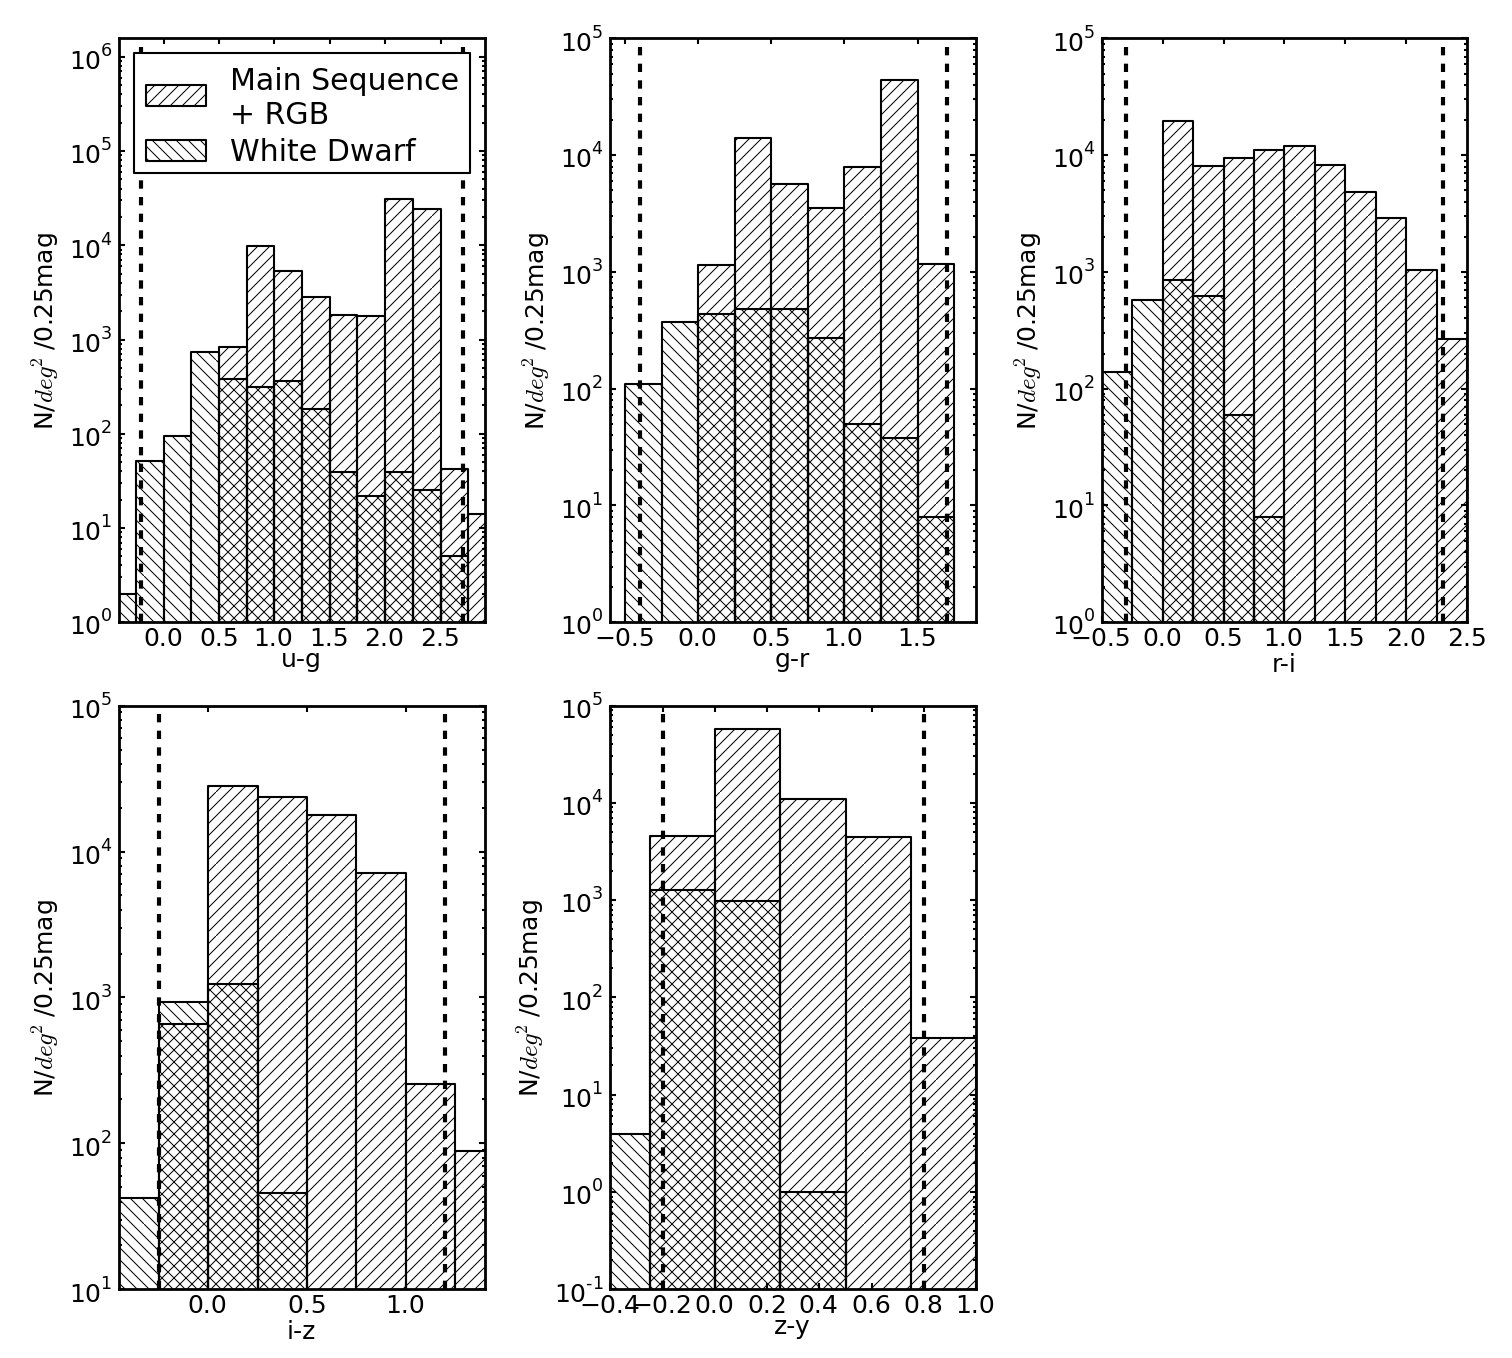
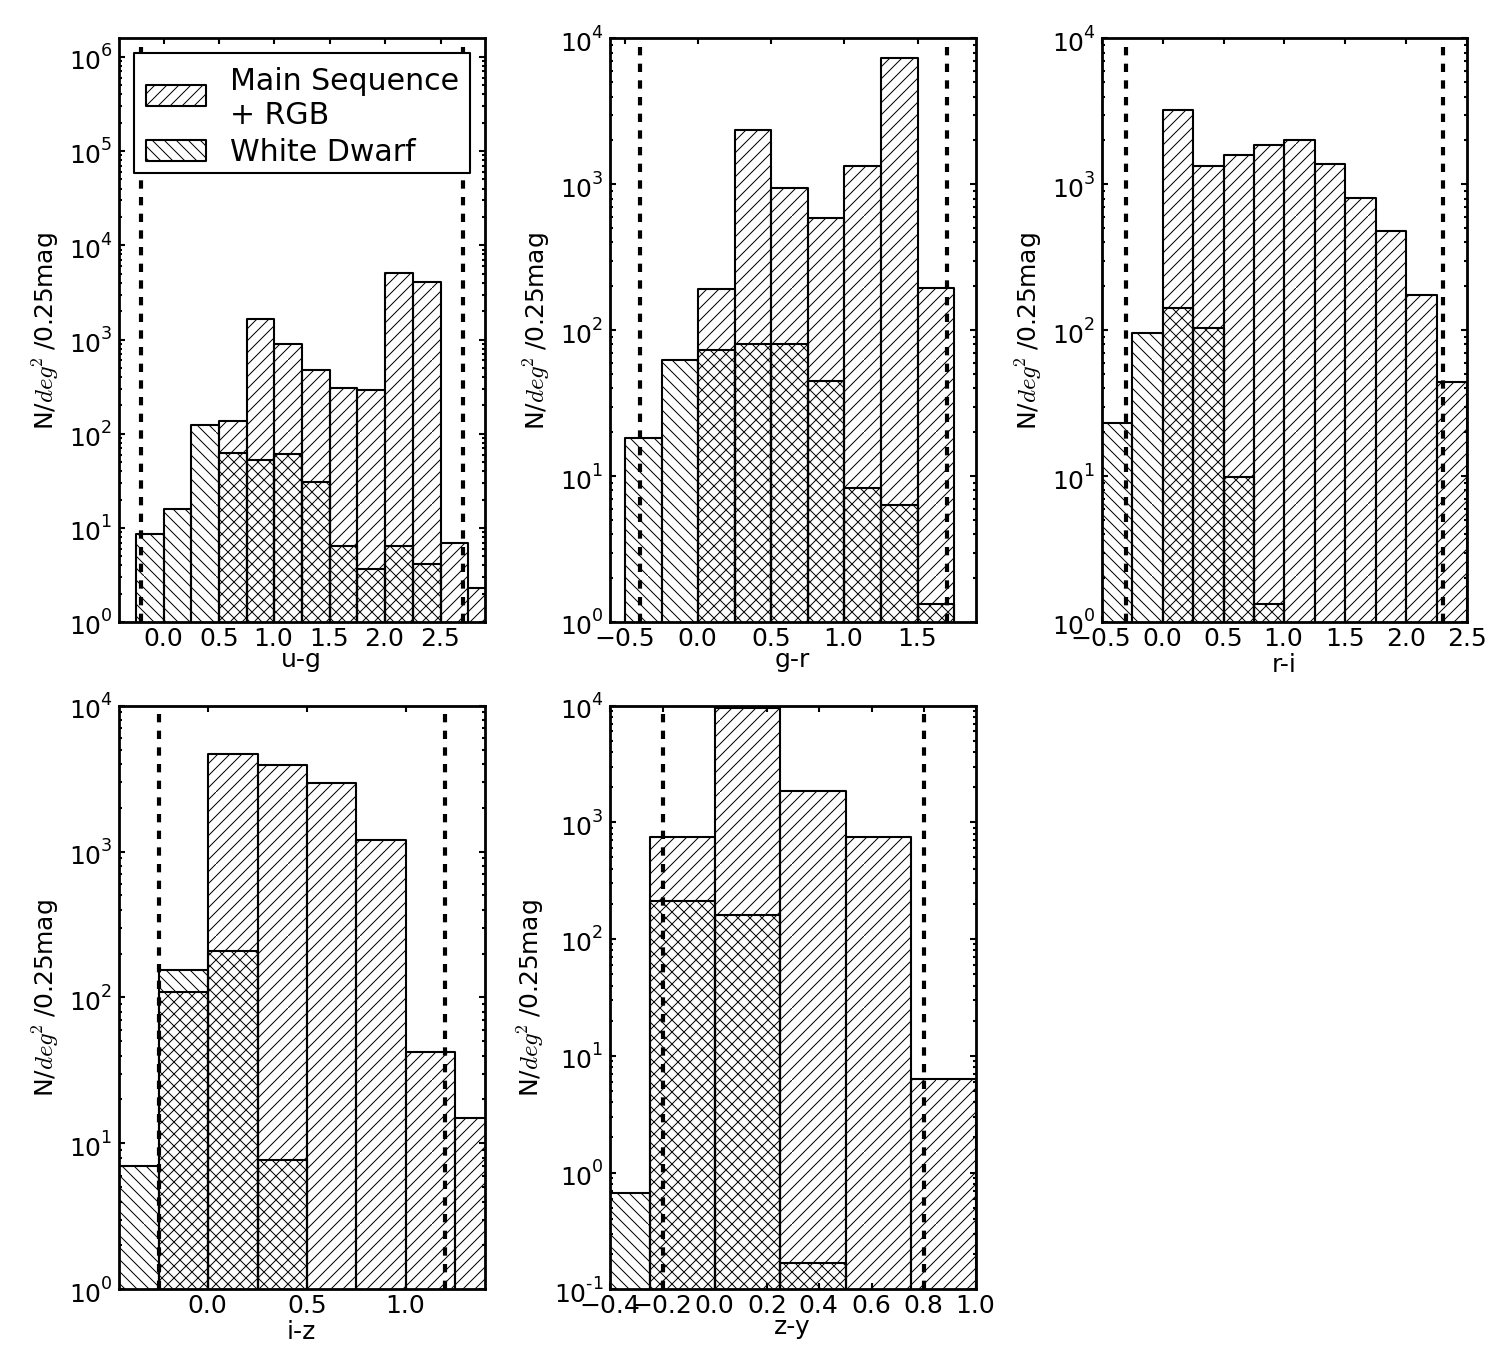
small fixes to figure and text

diff --git a/validation.tex b/validation.tex
@@ -1070,11 +1070,11 @@ the requirement that the colors span the range
 \begin{center}
 \begin{tabular}{c|r|r}
 Color Range& Blue Density (deg$^2$) & Red Density (deg$^2$)\\
-      $ -0.2 < u-g <        2.7 $&9&8\\
-       $  -0.4  <  g-r <       1.7 $&17&200\\
-        $ -0.3   <  r-i <    2.3 $&23&42\\
-        $  -0.25 < i-z <       1.2 $&260&42\\ 
-        $  -0.2 <  z-y   <    0.8 $&967&7
+      $ -0.2 < u-g <        2.7 $&9&7\\
+       $  -0.4  <  g-r <       1.7 $&18&200\\
+        $ -0.3   <  r-i <    2.3 $&23&44\\
+        $  -0.25 < i-z <       1.2 $&255&42\\ 
+        $  -0.2 <  z-y   <    0.8 $&967&6
 \end{tabular}
 \end{center}
 For each color ($u-g$, $g-r$, $r-i$,
